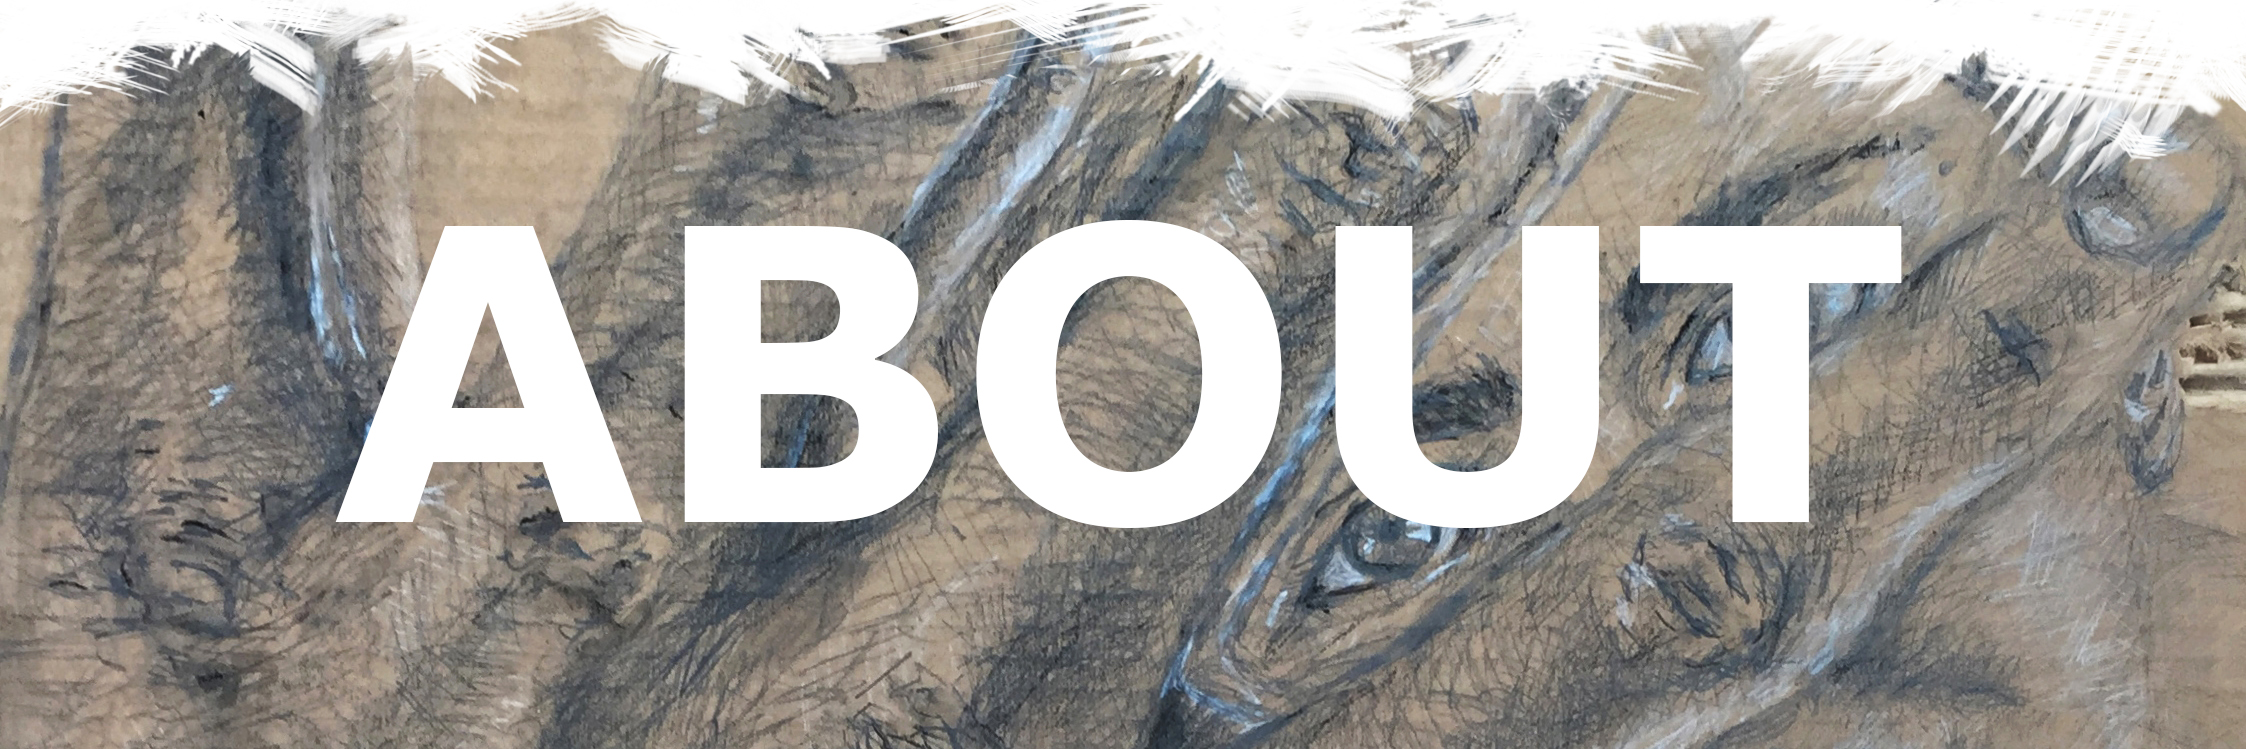
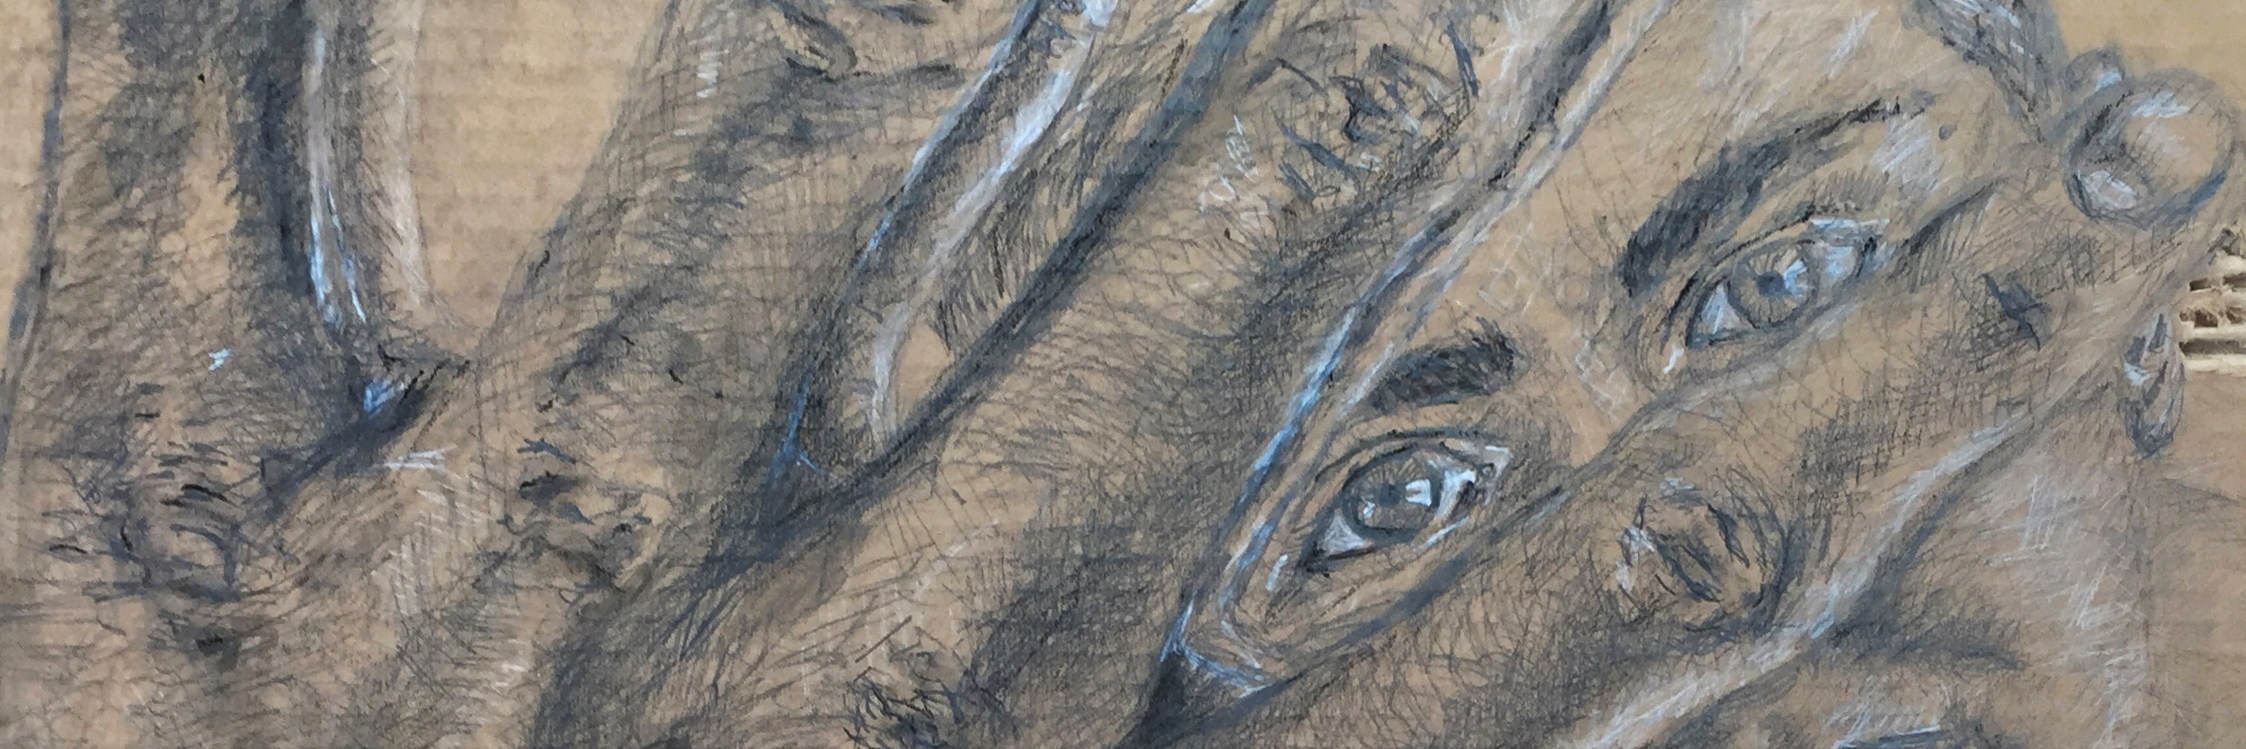
Imposed text on homepage images rather than it being within the images themselves

diff --git a/index.html b/index.html
@@ -36,7 +36,7 @@
   	<body>
 		
 		<nav class="navbar navbar-default navbar-fixed-top" id="top" role="banner">
-	      <div class="container-fluid">
+	      <div class="container-fluid head">
 	        <!-- Brand and toggle get grouped for better mobile display -->
 	        <div class="navbar-header">
 	          <button type="button" class="navbar-toggle collapsed" data-toggle="collapse" data-target="#menu" aria-expanded="false">
@@ -63,15 +63,30 @@
 
 	    <div class="spacer"></div>
 
-		<div class="container">
-			<a href="about.html"><img src="Images/About.jpg" alt="About"></a>
-		</div>
-		<div class="container">
-			<a href="artdesign.html"><img src="Images/ArtDesign.jpg" alt="Art/Design"></a>
-		</div>
-		<div class="container">
-			<a href="contact.html"><img src="Images/Contact.jpg" alt="Contact"></a>
-		</div>
+	    <a href="about.html" class="home">
+			<div class="container">
+				<img src="Images/About.jpg" alt="About">
+				<p>About</p>
+			</div>
+		</a>
+		<a href="cs.html" class="home">
+			<div class="container">
+				<img src="Images/cs.jpg" alt="Computer Science">
+				<p>Comp Sci</p>
+			</div>
+		</a>
+		<a href="artdesign.html" class="home">
+			<div class="container">
+				<img src="Images/ArtDesign.jpg" alt="Art/Design">
+				<p>Art/Design</p>
+			</div>
+		</a>
+		<a href="contact.html" class="home">
+			<div class="container">
+				<img src="Images/Contact.jpg" alt="Contact">
+				<p>Contact</p>
+			</div>
+		</a>
 
 		<footer>
 			<h>&copy Cameron Cabo 2016, All Rights Reserved.</h>

diff --git a/stylesheet.css b/stylesheet.css
@@ -104,16 +104,34 @@ a {
 .container {
   	display: block;
 	position: relative;
-	vertical-align: top;
 	width: 100%;
-	overflow: hidden;
 	margin: 0;
 	padding: 0;
+}
+
+.container p {
+	line-height: 33.3333vw;
+	position: absolute;
+	text-transform: uppercase;
+	font-weight: bold;
+	font-size: 500%;
+	top: 0;
+	z-index: 0;
+	color: white;
+	width: 100%;
+	text-align: center;
+	margin: 0;
+	padding: 0;
+}
+
+.container p:hover {
+	text-shadow: 0px 0px 32px black;
 }
 
 /******************************
     OTHER PAGES
 ******************************/
+
 section {
 	background-color: whitesmoke;
 	display: block;
@@ -237,7 +255,6 @@ section {
 .item {
 	display: block;
 	position: relative;
-	/*top: -.165in;*/
 	color: #474747;
 	font-size: 50%;
 	line-height: 1.5;
@@ -579,7 +596,7 @@ footer {
 	overflow-y: visible;
 	border-color: #D8D8D8;
 	border-style: solid;
-	border-width: 1px 0 0 0;
+	border-width: .5px 0 0 0;
 	text-align: center;
 	padding: 2.5% 0;
 }

diff --git a/css/style.css b/css/style.css
@@ -20,7 +20,10 @@ button.navbar-toggle {
 	margin: 0;
 }
 
-div.container-fluid {
+div.container-fluid.head {
+	border-color: #D8D8D8;
+	border-style: solid;
+	border-width: 0 0 .5px 0;
 }
 
 div.navbar-header {

diff --git a/README.md b/README.md
@@ -1,2 +1,2 @@
 # Website
-Hi! This is my personal website. This was built as an experiment in HTML and CSS (of late encorporating Bootstrap in some parts), as well as a means of showcasing my passions.
+Hi! This is my personal website. This was built as an experiment in HTML and CSS (of late incorporating Bootstrap in some parts), as well as a means of showcasing my passions.
